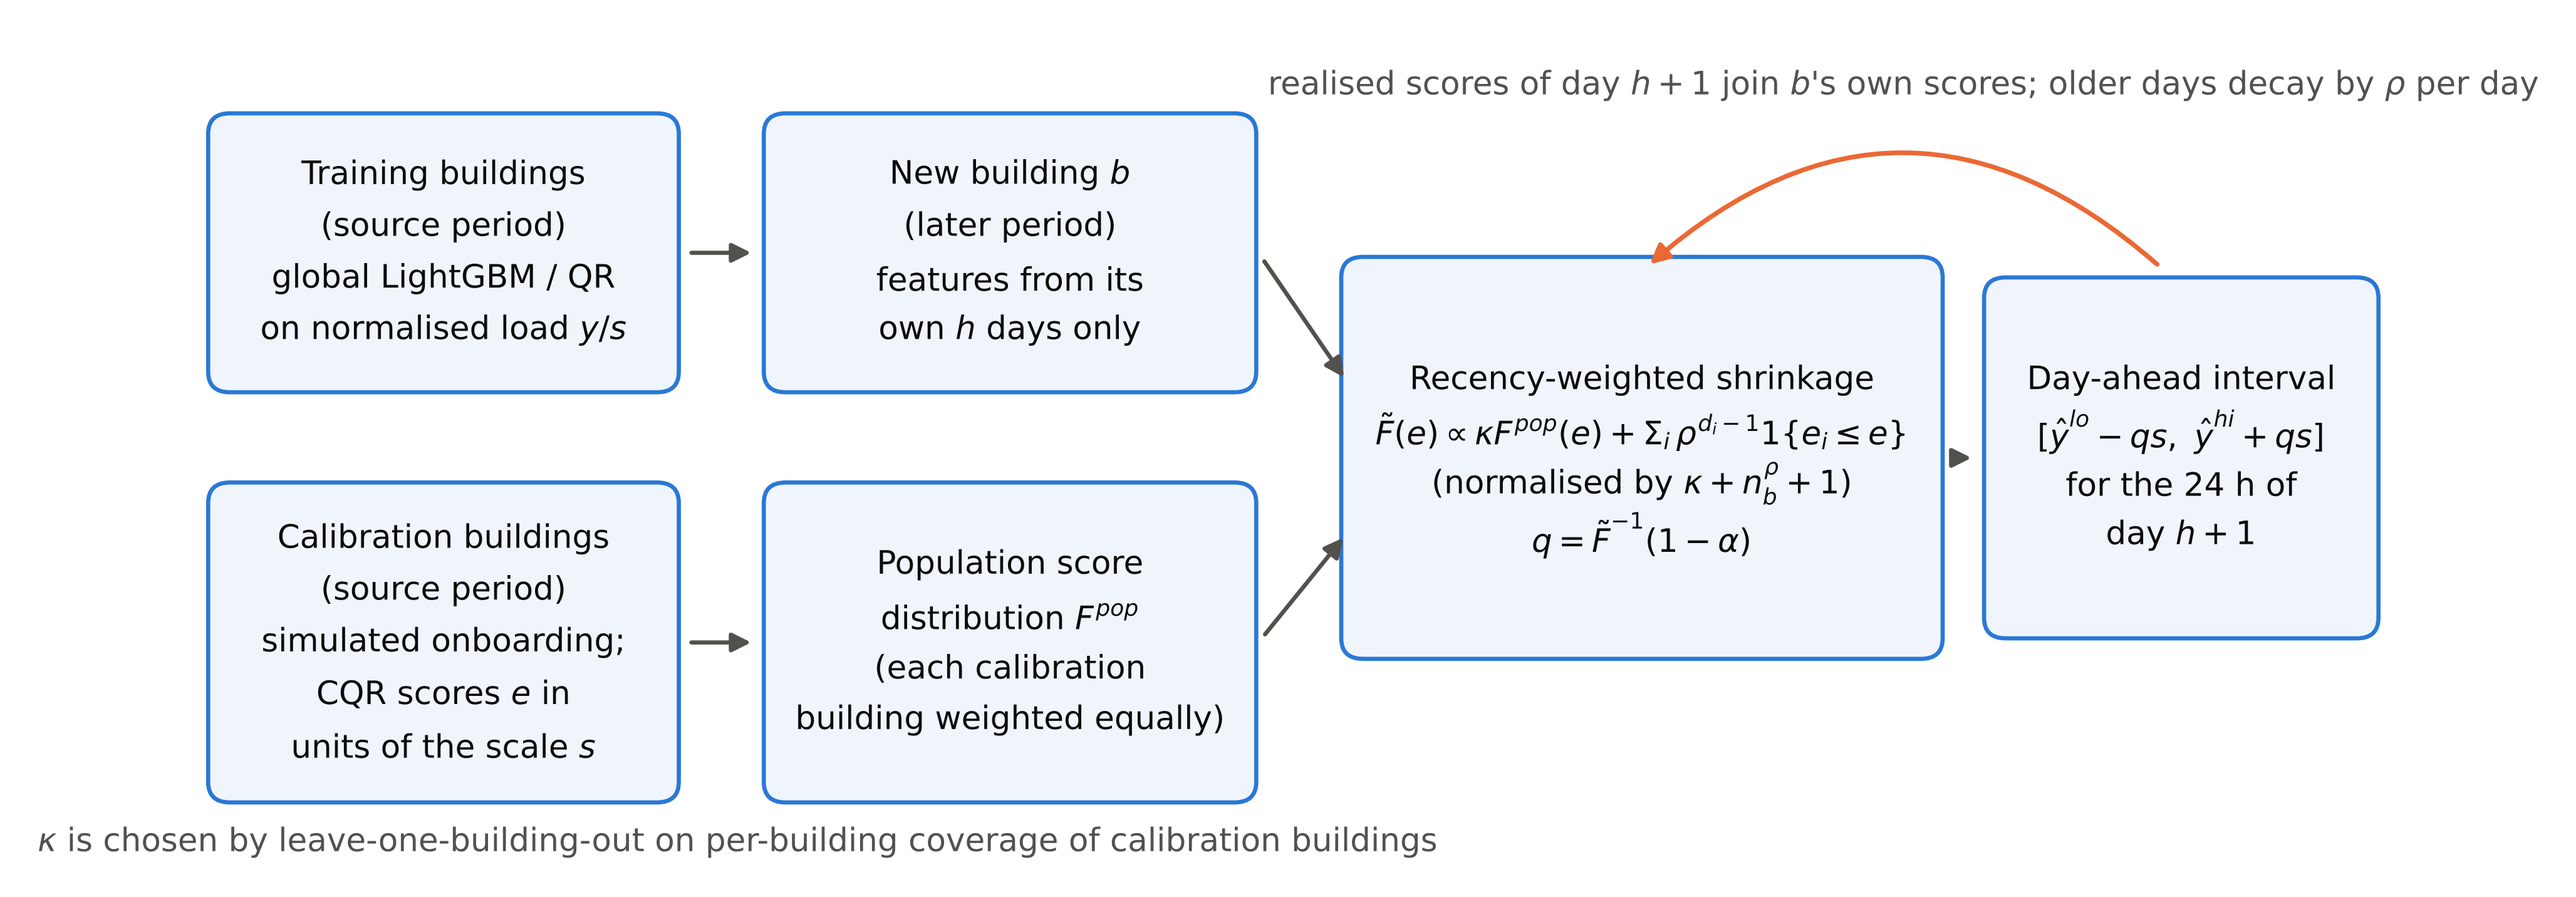
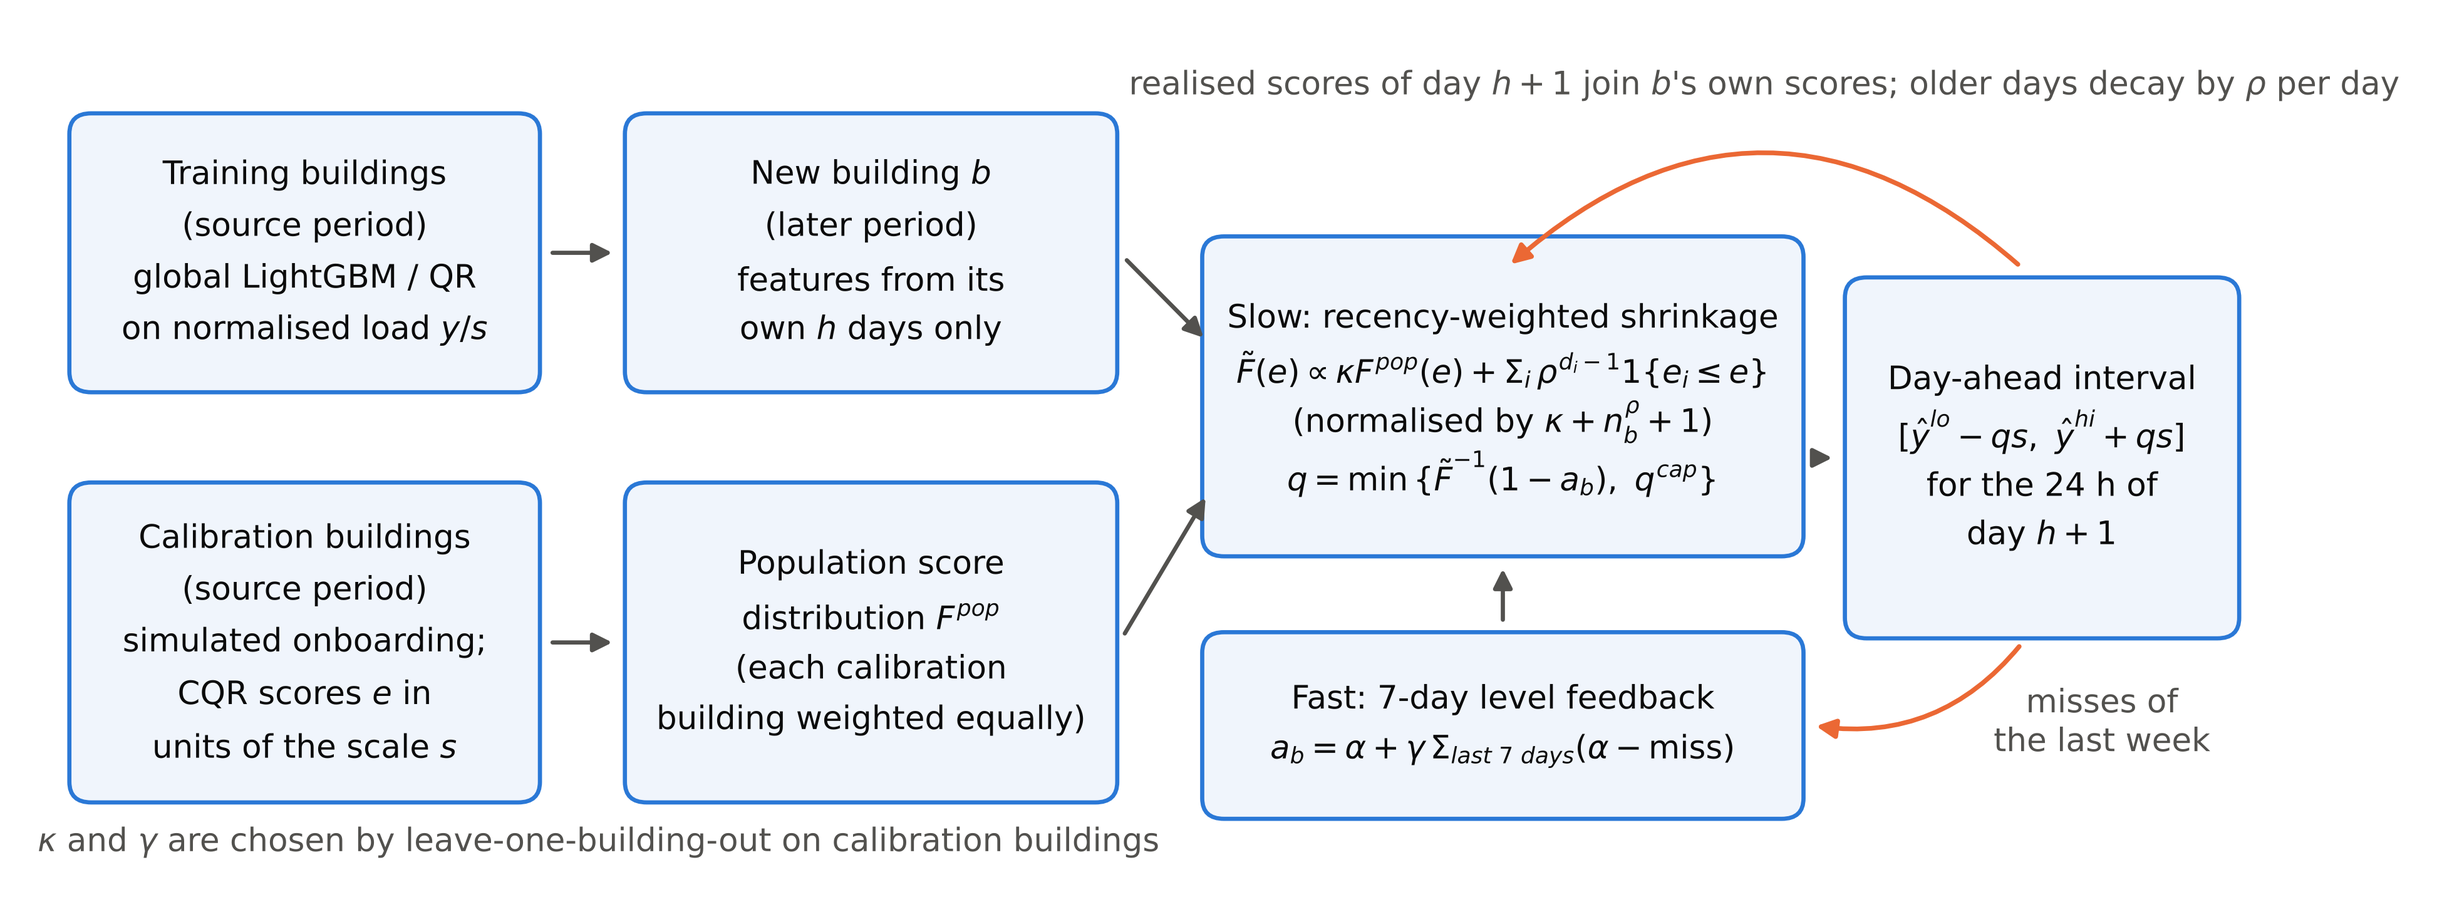
Method schematic with both timescales; caption
Claude-Session: https://claude.ai/code/session_01CVvjt3jGdWwTYwZCnTrcVK

diff --git a/src/visualization/figures.py b/src/visualization/figures.py
@@ -57,7 +57,8 @@ def fig_schematic():
         (0.5, 3, 21, 15, "Calibration buildings\n(source period)\nsimulated onboarding;\nCQR scores $e$ in\nunits of the scale $s$"),
         (26, 3, 22, 15, "Population score\ndistribution $F^{pop}$\n(each calibration\nbuilding weighted equally)"),
         (26, 23, 22, 13, "New building $b$\n(later period)\nfeatures from its\nown $h$ days only"),
-        (52.5, 10, 27, 19, "Recency-weighted shrinkage\n$\\tilde{F}(e)\\propto\\kappa F^{pop}(e)+\\Sigma_i\\, \\rho^{d_i-1} 1\\{e_i\\leq e\\}$\n(normalised by $\\kappa+n^{\\rho}_b+1$)\n$q=\\tilde{F}^{-1}(1-\\alpha)$"),
+        (52.5, 15, 27, 15, "Slow: recency-weighted shrinkage\n$\\tilde{F}(e)\\propto\\kappa F^{pop}(e)+\\Sigma_i\\, \\rho^{d_i-1} 1\\{e_i\\leq e\\}$\n(normalised by $\\kappa+n^{\\rho}_b+1$)\n$q=\\min\\{\\tilde{F}^{-1}(1-a_b),\\ q^{cap}\\}$"),
+        (52.5, 2.2, 27, 8.5, "Fast: 7-day level feedback\n$a_b=\\alpha+\\gamma\\,\\Sigma_{last\\ 7\\ days}(\\alpha-\\mathrm{miss})$"),
         (82, 11, 17.5, 17, "Day-ahead interval\n$[\\hat{y}^{lo}-qs,\\ \\hat{y}^{hi}+qs]$\nfor the 24 h of\nday $h+1$"),
     ]
     for x, y, w, h, t in boxes:
@@ -67,14 +68,18 @@ def fig_schematic():
     arr = dict(arrowstyle="-|>", color=INK2, lw=0.8)
     ax.annotate("", xy=(25.6, 10.5), xytext=(21.9, 10.5), arrowprops=arr)
     ax.annotate("", xy=(25.6, 29.5), xytext=(21.9, 29.5), arrowprops=arr)
-    ax.annotate("", xy=(52.6, 16), xytext=(48.4, 10.5), arrowprops=arr)
-    ax.annotate("", xy=(52.6, 23), xytext=(48.4, 29.5), arrowprops=arr)
+    ax.annotate("", xy=(52.6, 18), xytext=(48.4, 10.5), arrowprops=arr)
+    ax.annotate("", xy=(52.6, 25), xytext=(48.4, 29.5), arrowprops=arr)
+    ax.annotate("", xy=(66, 14.6), xytext=(66, 11.1), arrowprops=arr)
+    ax.annotate("", xy=(79.9, 6.5), xytext=(90, 10.7), arrowprops=dict(arrowstyle="-|>", color="#eb6834", lw=0.9,
+                                                                        connectionstyle="arc3,rad=-0.3"))
+    ax.text(93.5, 5.2, "misses of\nthe last week", ha="center", fontsize=fs, color=INK2)
     ax.annotate("", xy=(81.6, 19.5), xytext=(80.0, 19.5), arrowprops=arr)
     ax.annotate("", xy=(66, 28.6), xytext=(90, 28.6), arrowprops=dict(arrowstyle="-|>", color="#eb6834", lw=0.9,
                                                                         connectionstyle="arc3,rad=0.45"))
     ax.text(78, 37.2, "realised scores of day $h+1$ join $b$'s own scores; older days decay by $\\rho$ per day", ha="center",
             fontsize=fs, color=INK2)
-    ax.text(24.5, 0.3, "$\\kappa$ is chosen by leave-one-building-out on per-building coverage of calibration buildings",
+    ax.text(24.5, 0.3, "$\\kappa$ and $\\gamma$ are chosen by leave-one-building-out on calibration buildings",
             ha="center", fontsize=fs, color=INK2)
     _save(fig, "Fig1_method")
 

diff --git a/manuscript/sections/04_method.md b/manuscript/sections/04_method.md
@@ -35,9 +35,9 @@ with $\hat y^{\mathrm{lo}}=\hat y^{\mathrm{hi}}=\hat y$ for the absolute score. 
 
 ## Recency-weighted shrinkage conformal calibration {#sec:layer}
 
-Fig. [-@fig:method] summarises the calibration layer. Split conformal prediction [@vovk2005; @lei2018] sets $q$ to the $\lceil(1-\alpha)(N+1)\rceil$-th smallest of $N$ pooled calibration scores. This is valid on average over exchangeable test points but cannot adapt to an individual building whose errors are systematically larger or smaller than average, which is precisely the situation of a newly metered building. Calibration on the building's own scores alone removes this bias but replaces it with variance: with a few dozen hourly scores, an empirical 90 % quantile is a noisy estimate. The layer trades the two off explicitly.
+Fig. [-@fig:method] summarises the calibration; this subsection describes its slow component and Section [-@sec:ttsc] its fast component. Split conformal prediction [@vovk2005; @lei2018] sets $q$ to the $\lceil(1-\alpha)(N+1)\rceil$-th smallest of $N$ pooled calibration scores. This is valid on average over exchangeable test points but cannot adapt to an individual building whose errors are systematically larger or smaller than average, which is precisely the situation of a newly metered building. Calibration on the building's own scores alone removes this bias but replaces it with variance: with a few dozen hourly scores, an empirical 90 % quantile is a noisy estimate. The layer trades the two off explicitly.
 
-![Calibration layer for newly metered buildings. A global forecaster is trained on scale-normalised loads of training buildings. Calibration buildings, onboarded in the training period, provide CQR nonconformity scores that form the population score distribution. For a new building, the population distribution is mixed with the building's own past scores, which are down-weighted with their age (factor ρ per day), through a pseudo-count κ selected by leave-one-building-out on the per-building coverage of calibration buildings.](figures/Fig1_method.png){#fig:method}
+![Two-timescale shrinkage conformal calibration (TTSC) for newly enrolled buildings. A global forecaster is trained on scale-normalised loads of training buildings. Calibration buildings, onboarded in the training period, provide CQR nonconformity scores that form the population score distribution. Slow timescale: for a new building, the population distribution is mixed with the building's own past scores, down-weighted with their age (factor ρ per day), through a pseudo-count κ. Fast timescale: the miscoverage level at which the mixture is read is corrected from the building's misses in the last seven days (gain γ), and the radius is capped. κ and γ are selected by leave-one-building-out on calibration buildings.](figures/Fig1_method.png){#fig:method}
 
 **Population score distribution.** Let $\hat F_c$ be the empirical distribution function of the scores of calibration building $c$ over its onboarding window. The population distribution is the building-weighted average $F^{\mathrm{pop}}(e)=\frac1M\sum_{c=1}^{M}\hat F_c(e)$ over the $M$ calibration buildings, so that every building, not every hour, counts equally.
 
